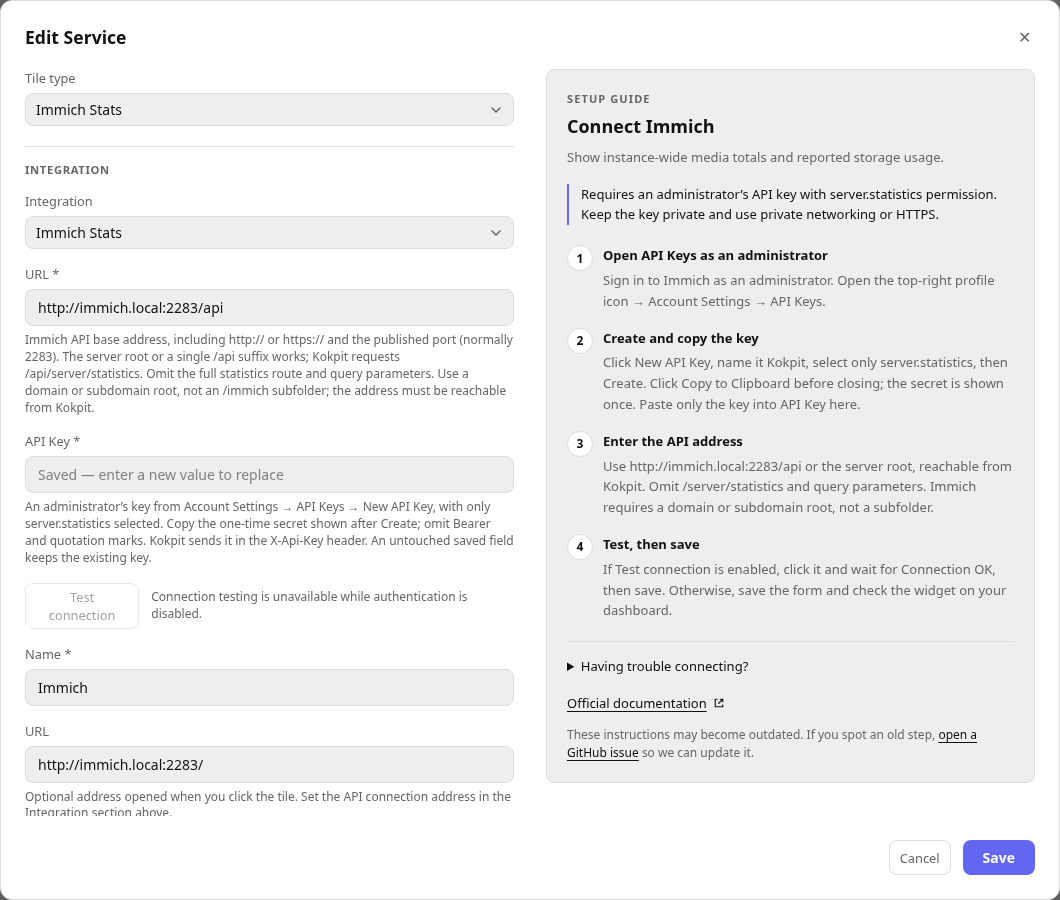
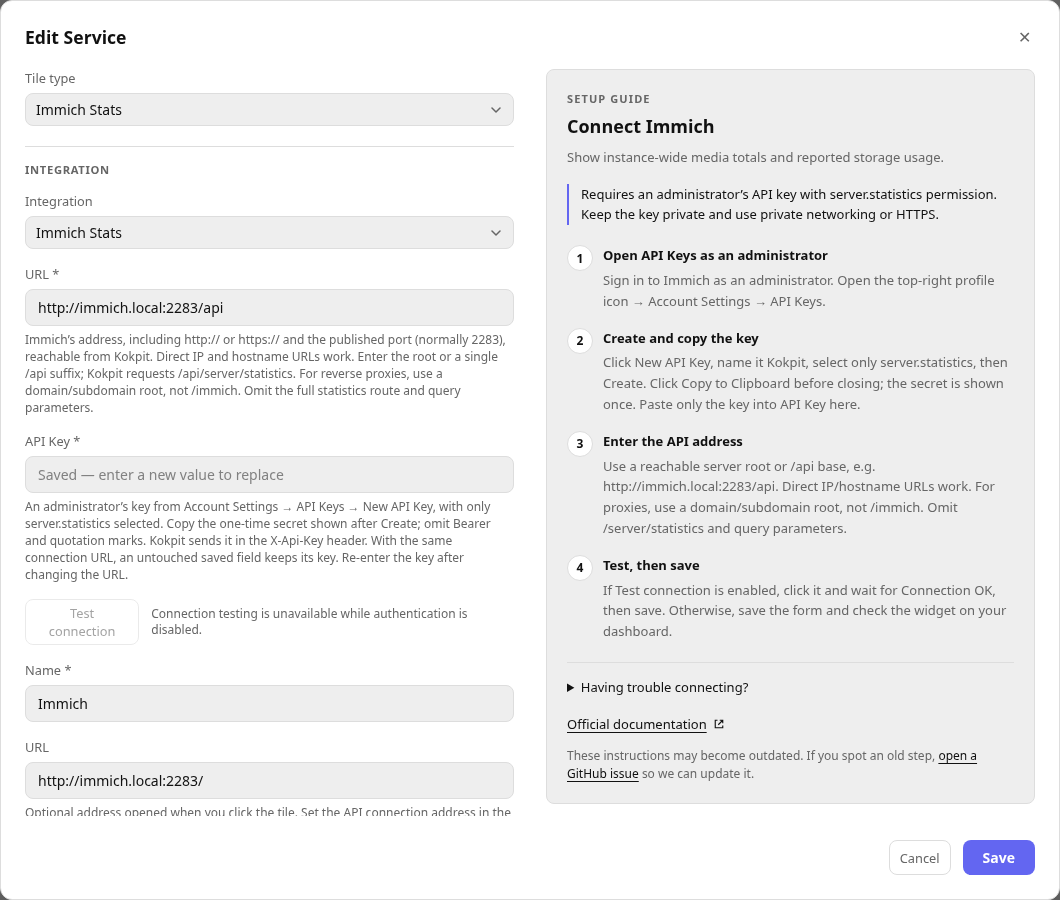
docs: clarify Immich URLs and saved key retention

diff --git a/src/integrations/immich/setupGuide.ts b/src/integrations/immich/setupGuide.ts
@@ -15,7 +15,7 @@ export const immichSetupGuide: WidgetSetupGuide = {
     },
     {
       title: "Enter the API address",
-      description: "Use http://immich.local:2283/api or the server root, reachable from Kokpit. Omit /server/statistics and query parameters. Immich requires a domain or subdomain root, not a subfolder.",
+      description: "Use a reachable server root or /api base, e.g. http://immich.local:2283/api. Direct IP/hostname URLs work. For proxies, use a domain/subdomain root, not /immich. Omit /server/statistics and query parameters.",
     },
     {
       title: "Test, then save",
@@ -29,11 +29,11 @@ export const immichSetupGuide: WidgetSetupGuide = {
     },
     {
       title: "Lost, rotated or deleted key",
-      description: "The secret is shown only once. Create a replacement if you did not copy it. Rotating or deleting a key in Immich invalidates its old value; update Kokpit with the replacement and save. Leaving an existing saved credential untouched keeps it.",
+      description: "The secret is shown only once. Create a replacement if you did not copy it. Rotating or deleting a key in Immich invalidates its old value; update Kokpit with the replacement and save. An untouched saved key is retained only while the connection URL stays unchanged. Re-enter the key after changing that URL.",
     },
     {
       title: "404, invalid JSON or an HTML page",
-      description: "Use the server root or a single /api suffix, rather than /api/api or the full statistics route. A reverse proxy must forward API requests and the API-key header. Immich does not support a subfolder such as /immich; use a dedicated domain or subdomain.",
+      description: "Use the server root or a single /api suffix, rather than /api/api or the full statistics route. Direct IP/hostname URLs work too. A reverse proxy must forward API requests and the API-key header from a domain/subdomain root. Immich does not support a subfolder such as /immich.",
     },
     {
       title: "Cannot reach Immich",

diff --git a/src/integrations/immich/statsWidget.tsx b/src/integrations/immich/statsWidget.tsx
@@ -89,14 +89,14 @@ registerWidget<ImmichConfig, ImmichStats>({
       type: "url",
       required: true,
       placeholder: "http://192.168.1.x:2283/api",
-      description: "Immich API base address, including http:// or https:// and the published port (normally 2283). The server root or a single /api suffix works; Kokpit requests /api/server/statistics. Omit the full statistics route and query parameters. Use a domain or subdomain root, not an /immich subfolder; the address must be reachable from Kokpit.",
+      description: "Immich’s address, including http:// or https:// and the published port (normally 2283), reachable from Kokpit. Direct IP and hostname URLs work. Enter the root or a single /api suffix; Kokpit requests /api/server/statistics. For reverse proxies, use a domain/subdomain root, not /immich. Omit the full statistics route and query parameters.",
     },
     {
       key: "api_key",
       label: "API Key",
       type: "password",
       required: true,
-      description: "An administrator’s key from Account Settings → API Keys → New API Key, with only server.statistics selected. Copy the one-time secret shown after Create; omit Bearer and quotation marks. Kokpit sends it in the X-Api-Key header. An untouched saved field keeps the existing key.",
+      description: "An administrator’s key from Account Settings → API Keys → New API Key, with only server.statistics selected. Copy the one-time secret shown after Create; omit Bearer and quotation marks. Kokpit sends it in the X-Api-Key header. With the same connection URL, an untouched saved field keeps its key. Re-enter the key after changing the URL.",
     },
   ],
   serviceEditorPreset: {

diff --git a/README.md b/README.md
@@ -1507,7 +1507,7 @@ Shows global Immich media and storage stats for your instance.
 
 **Prerequisites:** A reachable Immich server and an **administrator’s** API key with **`server.statistics`** permission. Sign in as an administrator, open the profile icon → **Account Settings → API Keys**, click **New API Key**, name it Kokpit, select only `server.statistics`, and click **Create**. Click **Copy to Clipboard** before closing: the secret is shown only once. Paste the secret itself into Kokpit, without `Bearer` or quotation marks. This widget does not need `server.storage` or all permissions. Keep the key private and use private networking or HTTPS.
 
-Add/Edit Service includes numbered instructions, field help, troubleshooting and the shared outdated-instructions/GitHub-issue notice. Enter the server root or a single `/api` suffix, such as `http://immich.local:2283/api`. Kokpit normalizes the suffix and requests `GET /api/server/statistics` with the `X-Api-Key` header; omit the full statistics route and query parameters. Immich requires a domain or subdomain root and does **not** support an `/immich` subfolder. Use **Test connection** when enabled, then save; otherwise save and check the dashboard. See the official [user settings](https://docs.immich.app/features/user-settings/), [API documentation](https://api.immich.app/), [server statistics](https://docs.immich.app/administration/server-stats/) and [reverse-proxy guide](https://docs.immich.app/administration/reverse-proxy/).
+Add/Edit Service includes numbered instructions, field help, troubleshooting and the shared outdated-instructions/GitHub-issue notice. Enter the server root or a single `/api` suffix, such as `http://immich.local:2283/api`. Kokpit normalizes the suffix and requests `GET /api/server/statistics` with the `X-Api-Key` header; omit the full statistics route and query parameters. Reachable direct IP or hostname URLs are valid. For reverse-proxy deployments, use a domain or subdomain root. Immich does **not** support an `/immich` subfolder. Use **Test connection** when enabled, then save; otherwise save and check the dashboard. See the official [user settings](https://docs.immich.app/features/user-settings/), [API documentation](https://api.immich.app/), [server statistics](https://docs.immich.app/administration/server-stats/) and [reverse-proxy guide](https://docs.immich.app/administration/reverse-proxy/).
 
 #### `immich-stats`
 
@@ -1534,7 +1534,7 @@ service_tiles:
 
 | Field     | Required | Description                                      |
 | --------- | -------- | ------------------------------------------------ |
-| `url`     | Yes      | Server root or API base ending in a single `/api`, including protocol and published port (normally 2283), reachable from Kokpit; no subfolder or full statistics route |
+| `url`     | Yes      | Reachable server root (direct IP/hostname or proxy domain/subdomain) or API base ending in a single `/api`, including protocol and published port (normally 2283); no subfolder or full statistics route |
 | `api_key` | Yes      | Administrator-owned API key with `server.statistics` permission; copy the one-time secret from Account Settings → API Keys |
 
 
@@ -1544,7 +1544,7 @@ service_tiles:
 | Storage | Instance-wide media usage reported by the statistics endpoint, formatted in decimal B/KB/MB/GB/TB; not disk capacity or free space, and excludes external-library file usage |
 | Items   | Sum of the instance-wide photo and video counts returned by Immich; not just the key owner's library |
 
-The default refresh is 60 seconds; editor overrides use milliseconds with a 5-second minimum. There are no per-user or metric-selection options. Counts and usage follow the installed Immich version's server-statistics rules. A regular user's key cannot access this administrator-only endpoint. Rotating or deleting the upstream key invalidates it; update the saved Kokpit credential too.
+The default refresh is 60 seconds; editor overrides use milliseconds with a 5-second minimum. There are no per-user or metric-selection options. Counts and usage follow the installed Immich version's server-statistics rules. A regular user's key cannot access this administrator-only endpoint. Rotating or deleting the upstream key invalidates it; update the saved Kokpit credential too. An untouched saved key is retained only while the connection URL stays unchanged; re-enter the key after changing that URL.
 
 ---
 

diff --git a/docs/integration-setup-guidance-proposal.md b/docs/integration-setup-guidance-proposal.md
@@ -216,8 +216,8 @@ Checked 23 October 2026 against the official [authentication guide](https://docs
 
 Checked 23 October 2026 against the official [user settings guide](https://docs.immich.app/features/user-settings/), [API documentation](https://api.immich.app/), [server statistics](https://docs.immich.app/administration/server-stats/) and [reverse-proxy guide](https://docs.immich.app/administration/reverse-proxy/). Exact UI and endpoint details were also checked in the current stable [v3.3.5 source](https://github.com/immich-app/immich/tree/v3.3.5).
 
-- **Getting the key:** the profile menu opens Account Settings → API Keys. The [creation dialog](https://github.com/immich-app/immich/blob/v3.3.5/web/src/lib/modals/ApiKeyCreateModal.svelte) accepts a name and selected permissions, then Create. The [secret dialog](https://github.com/immich-app/immich/blob/v3.3.5/web/src/lib/modals/ApiKeySecretModal.svelte) offers Copy to Clipboard; its English description says the secret is shown once. Instructions distinguish the secret from its name/ID, and explain replacement after rotation/deletion.
+- **Getting the key:** the profile menu opens Account Settings → API Keys. The [creation dialog](https://github.com/immich-app/immich/blob/v3.3.5/web/src/lib/modals/ApiKeyCreateModal.svelte) accepts a name and selected permissions, then Create. The [secret dialog](https://github.com/immich-app/immich/blob/v3.3.5/web/src/lib/modals/ApiKeySecretModal.svelte) offers Copy to Clipboard; its English description says the secret is shown once. Instructions distinguish the secret from its name/ID, and explain replacement after rotation/deletion. Kokpit retains an untouched saved key only while the connection URL remains unchanged; URL edits require re-entering the key.
 - **Least privilege and account scope:** the [OpenAPI specification](https://github.com/immich-app/immich/blob/v3.3.5/open-api/immich-openapi-specs.json) and [controller](https://github.com/immich-app/immich/blob/v3.3.5/server/src/controllers/server.controller.ts) mark GET `/server/statistics` administrator-only with `server.statistics` permission. Kokpit makes only this request, so `server.storage` and all permissions are unnecessary. The API-key scheme uses `x-api-key`. Older versions with different permission controls should be checked against their installed-version API documentation rather than silently granting all permissions.
-- **Address:** the official proxy guide requires a domain/subdomain root and explicitly disallows subpaths. Kokpit's existing URL normalizer accepts the root or `/api`, adds one suffix and a final slash, then requests `server/statistics`; stored addresses and runtime behavior remain unchanged. Guidance omits query strings and full endpoint routes, and explains Docker localhost and proxy sign-in pages.
+- **Address:** the official proxy guide requires a domain/subdomain root for reverse-proxy deployments and explicitly disallows subpaths. Reachable direct IP/hostname addresses also work. Kokpit's existing URL normalizer accepts the root or `/api`, adds one suffix and a final slash, then requests `server/statistics`; stored addresses and runtime behavior remain unchanged. Guidance omits query strings and full endpoint routes, and explains Docker localhost and proxy sign-in pages.
 - **Metrics and options:** checked the schema, fetcher and renderer. The only footprint is Default 3×2, with Storage and Items side by side. Items adds `photos + videos`; Storage displays `usage` with decimal byte units. These are instance-wide values, not the key owner's totals or filesystem capacity/free space. The [statistics query](https://github.com/immich-app/immich/blob/v3.3.5/server/src/repositories/user.repository.ts) excludes external-library files from usage. No per-user or metric-selection options exist; refresh defaults to 60 seconds with the shared 5-second override minimum.
 - The shared outdated-instructions/GitHub-issue notice applies. Previews use isolated configuration and a dummy key; live Immich connectivity has not been tested.
